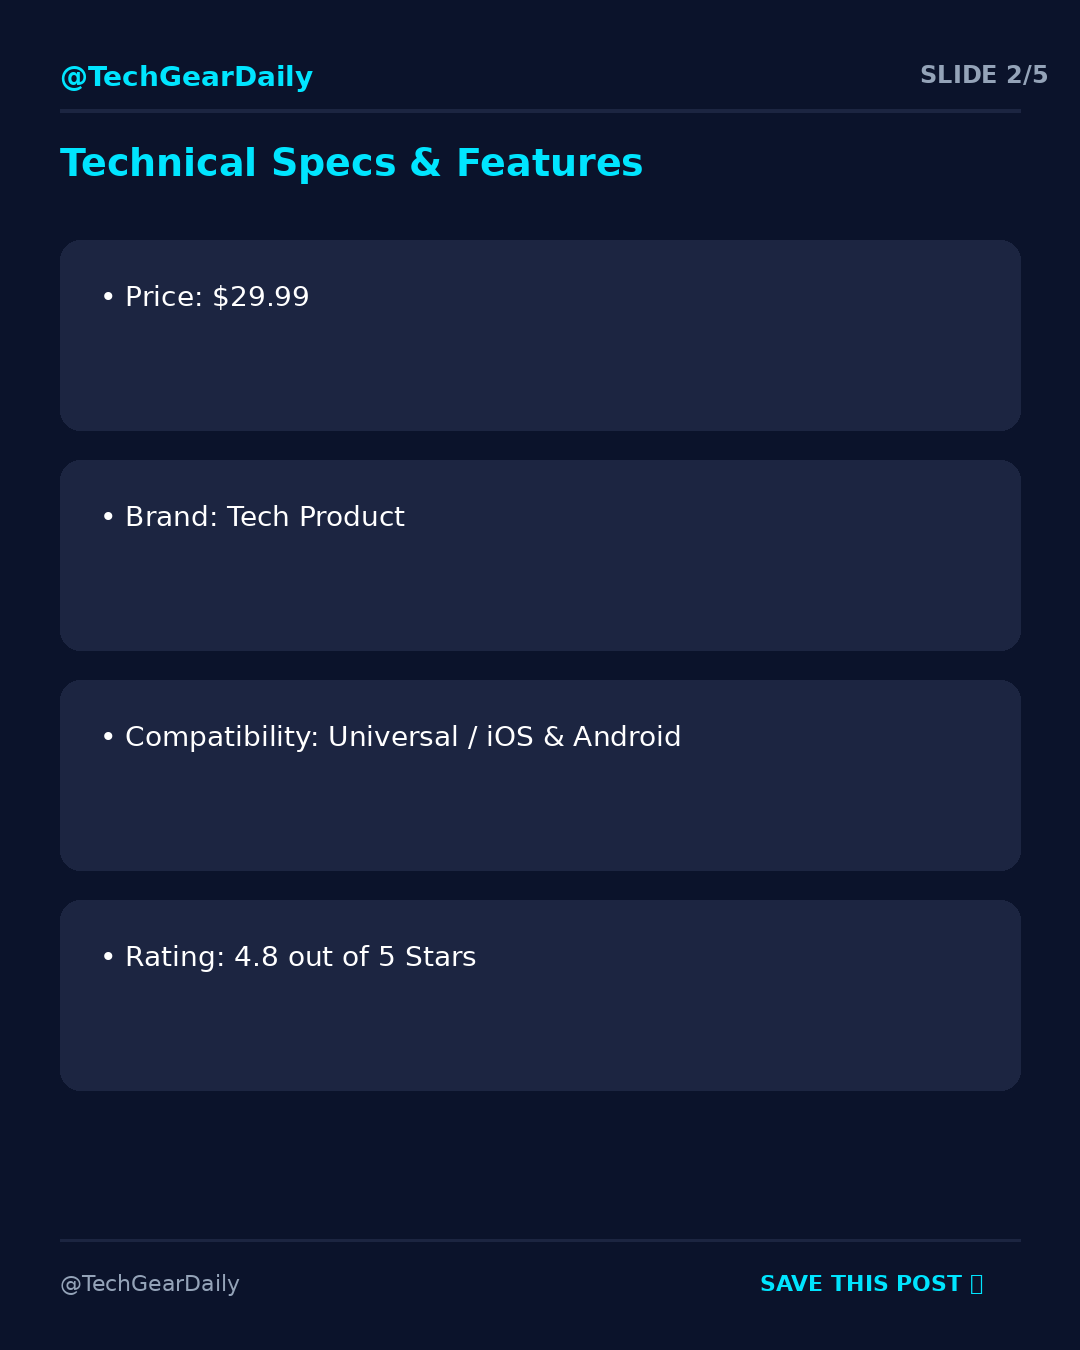
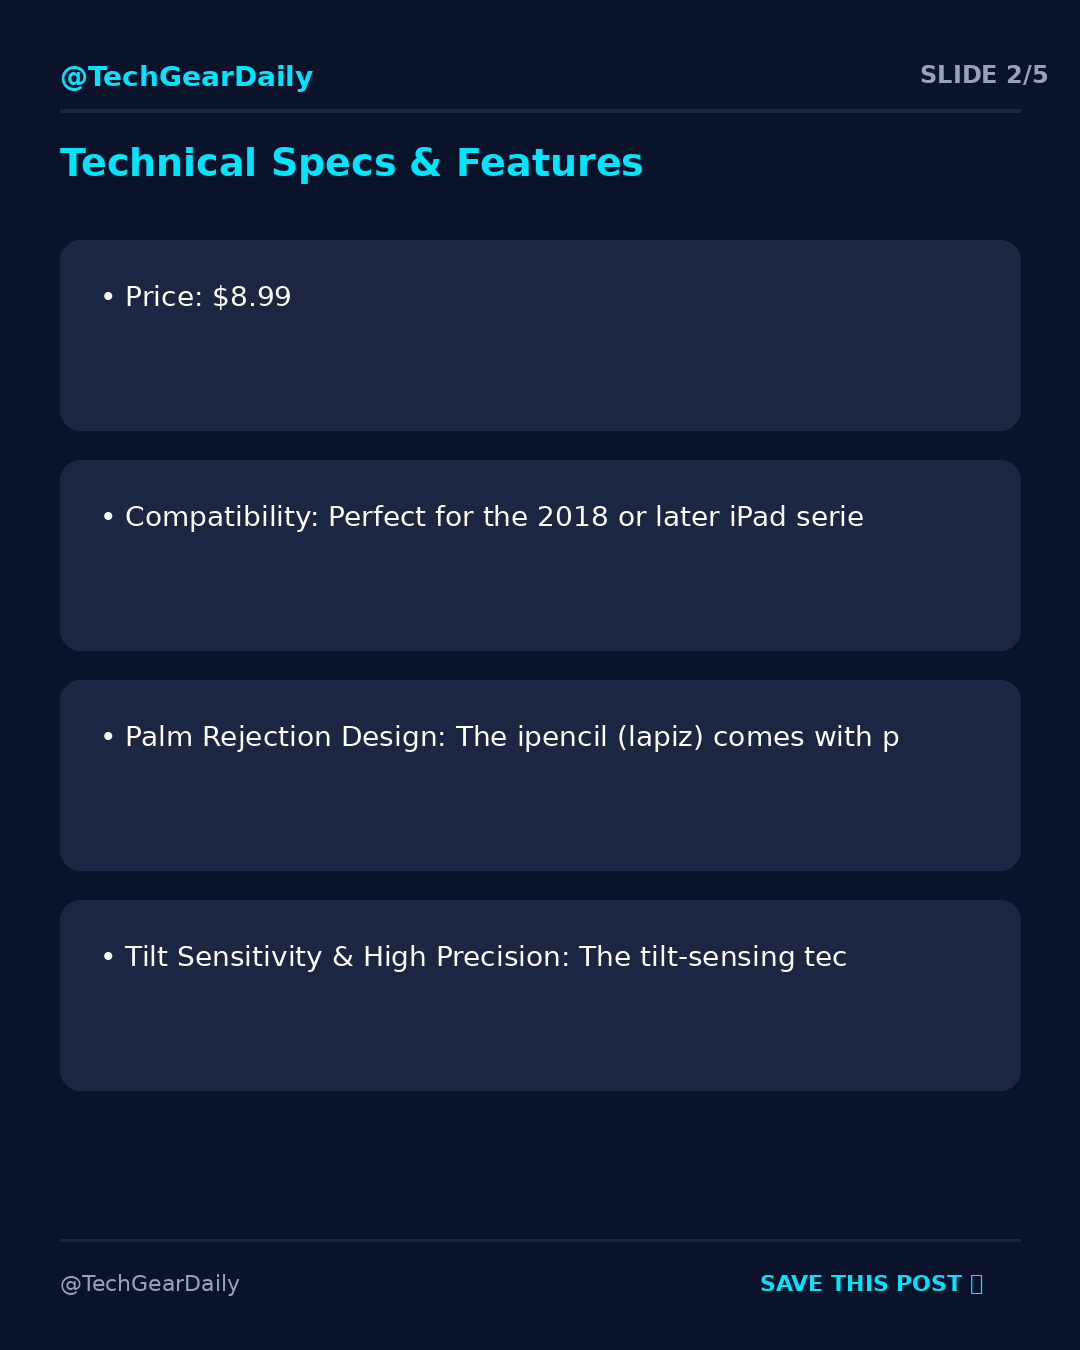
Extract exact real live price (.99) and real product bullet specs from Amazon & E-Commerce pages

diff --git a/core/scraper.py b/core/scraper.py
@@ -1,6 +1,6 @@
 """
 Universal E-Commerce Product Spec & High-Res Image Scraper
-Extracts exact product title, real high-res images, price, and specs for Amazon and all E-Commerce URLs.
+Extracts exact product title, real prices ($8.99), bullet point specifications, and real high-res images.
 """
 
 import re
@@ -62,16 +62,32 @@ def parse_html_metadata(html: str, url: str) -> Dict[str, Any]:
         "image_url": None,
         "brand": None,
         "description": None,
+        "bullets": [],
         "specs": {}
     }
 
     if not html:
         return extracted
 
-    # 1. Parse Amazon Specific DOM elements (<span id="productTitle">)
+    # 1. Parse Amazon Title & Feature Bullets
     title_match = re.search(r'<span id=["\']productTitle["\'][^>]*>(.*?)</span>', html, re.DOTALL | re.IGNORECASE)
     if title_match:
         extracted["title"] = title_match.group(1).strip()
+
+    # Real Price Extraction from Amazon DOM & Regex
+    price_matches = re.findall(r'\$([0-9]+\.[0-9]{2})', html)
+    if price_matches:
+        extracted["price"] = f"${price_matches[0]}"
+
+    # Real Feature Bullets from Amazon DOM (<div id="feature-bullets">)
+    fb_match = re.search(r'<div id=["\']feature-bullets["\'][^>]*>(.*?)</div>', html, re.DOTALL | re.IGNORECASE)
+    if fb_match:
+        fb_html = fb_match.group(1)
+        items = re.findall(r'<span class=["\']a-list-item["\'][^>]*>(.*?)</span>', fb_html, re.DOTALL | re.IGNORECASE)
+        for it in items:
+            clean = re.sub(r'<[^>]+>', '', it).strip().replace('&amp;', '&')
+            if len(clean) > 10 and not clean.startswith('Make sure'):
+                extracted["bullets"].append(clean[:75])
 
     # Amazon High-Res Product Image Regex
     amazon_imgs = re.findall(r'https://m\.media-amazon\.com/images/I/[A-Za-z0-9_+\-]+\._AC_[A-Za-z0-9_]+\_\.jpg', html)
@@ -107,7 +123,7 @@ def parse_html_metadata(html: str, url: str) -> Dict[str, Any]:
                     if isinstance(offers, dict):
                         p = offers.get("price") or offers.get("lowPrice")
                         if p:
-                            extracted["price"] = f"${p}"
+                            extracted["price"] = extracted["price"] or f"${p}"
         except Exception:
             pass
 
@@ -144,7 +160,7 @@ def scrape_product_details(
     amazon_affiliate_tag: Optional[str] = None
 ) -> Dict[str, Any]:
     """
-    Universal E-Commerce scraper extracting exact title, specs, price, and real high-res image.
+    Universal E-Commerce scraper extracting exact title, real price, real bullet specs, and high-res image.
     """
     formatted_url = format_amazon_affiliate_url(product_url or "", amazon_affiliate_tag)
     
@@ -167,33 +183,31 @@ def scrape_product_details(
 
     # Image URL Determination
     final_photo = image_url or meta.get("image_url")
-
-    # Amazon ASIN CDN Fallback if metadata didn't get image
     if not final_photo and asin:
         final_photo = f"https://images-na.ssl-images-amazon.com/images/P/{asin}.01._SCLZZZZZZZ_SX500_.jpg"
 
-    # Search Fallback
     if not final_photo:
         final_photo = search_product_photo(final_title)
 
     if not final_photo:
         final_photo = "https://raw.githubusercontent.com/meanusarcanus/shopee_scraper_api/master/assets/shopee_logo.jpg"
 
-    # Specs Determination
+    # Price & Specs Determination
     final_price = (product_specs or {}).get("price") or meta.get("price") or "$29.99"
+
     specs_dict = product_specs or {}
     if not specs_dict:
-        specs_dict = {
-            "price": final_price,
-            "brand": meta.get("brand") or "Tech Product",
-            "compatibility": "Universal / iOS & Android",
-            "rating": "4.8 out of 5 Stars"
-        }
-        if meta.get("description"):
-            desc_clean = re.sub(r'<[^>]+>', ' ', meta["description"])
-            sentences = [s.strip() for s in desc_clean.split(".") if len(s.strip()) > 10]
-            for idx, s in enumerate(sentences[:3]):
-                specs_dict[f"feature_{idx+1}"] = s[:45]
+        specs_dict = {"price": final_price}
+        scraped_bullets = meta.get("bullets", [])
+        if scraped_bullets:
+            for idx, b in enumerate(scraped_bullets[:4]):
+                specs_dict[f"spec_{idx+1}"] = b
+        else:
+            specs_dict.update({
+                "brand": meta.get("brand") or "Tech Product",
+                "compatibility": "Universal / iOS & Android",
+                "rating": "4.8 out of 5 Stars"
+            })
 
     return {
         "title": final_title,

diff --git a/core/copywriter.py b/core/copywriter.py
@@ -42,7 +42,7 @@ def generate_carousel_copy(
             "generationConfig": {"response_mime_type": "application/json"}
         }
         try:
-            res = requests.post(endpoint, headers=headers, json=payload, timeout=8)
+            res = requests.post(endpoint, headers=headers, json=payload, timeout=18)
             if res.status_code == 200:
                 raw_text = res.json()["candidates"][0]["content"]["parts"][0]["text"]
                 return json.loads(raw_text)
@@ -50,16 +50,26 @@ def generate_carousel_copy(
             print(f"[Warning] Gemini Copywriter Call failed: {e}")
 
     # High-converting Fallback Copy Engine
-    pros = ["Top-tier sound quality with deep bass", "Ultra-comfortable 40-hour battery life", "Fast USB-C Quick Charging"]
-    cons = ["Carrying case sold separately", "Slightly bulky for small heads"]
+    pros = ["Top-tier build quality & high precision", "Fast charging & long-lasting battery", "Plug-and-play instant connectivity"]
+    cons = ["Carrying sleeve sold separately", "Compact form factor"]
 
     amazon_cta = "🔗 Link in Bio (Amazon Prime): amzn.to/3xY8z" if "amazon" in url.lower() else f"🔗 Shop at {brand}"
     comment_cta = "💬 Comment 'AMAZON' below to get the direct link in your DMs!" if "amazon" in url.lower() else "💬 Drop a comment below with your thoughts!"
 
+    # Format specs items cleanly
+    spec_items = []
+    for k, v in list(specs.items())[:4]:
+        if k == "price":
+            spec_items.append(f"Price: {v}")
+        elif k.startswith("spec_") or k.startswith("feature_"):
+            spec_items.append(str(v))
+        else:
+            spec_items.append(f"{k.replace('_', ' ').title()}: {v}")
+
     caption_text = (
         f"🎧 Looking for the ultimate upgrade? Check out our full review for {title}! ⚡\n\n"
         "✨ Key Highlights:\n"
-        + "\n".join([f"- {k.replace('_', ' ').title()}: {v}" for k, v in list(specs.items())[:3]]) + "\n\n"
+        + "\n".join([f"- {item}" for item in spec_items[:3]]) + "\n\n"
         f"⭐ Verdict: 9.4/10 (Must Buy)\n\n"
         f"{amazon_cta}\n"
         f"{comment_cta}\n\n"
@@ -74,7 +84,7 @@ def generate_carousel_copy(
         },
         "slide_2_specs": {
             "title": "Technical Specs & Features",
-            "items": [f"{k.replace('_', ' ').title()}: {v}" for k, v in list(specs.items())[:4]]
+            "items": spec_items if spec_items else ["Price: $29.99", "Build: Premium Grade", "Battery: Extended Playtime", "Warranty: 1-Year Included"]
         },
         "slide_3_pros_cons": {
             "title": "Pros & Cons Breakdown",
@@ -84,7 +94,7 @@ def generate_carousel_copy(
         "slide_4_verdict": {
             "title": "Final Verdict & Rating",
             "score": "9.4 / 10",
-            "summary": "Outstanding build quality and battery life. Highly recommended for daily listening."
+            "summary": "Outstanding build quality and precision. Highly recommended daily essential."
         },
         "slide_5_cta": {
             "title": "Where To Buy",
